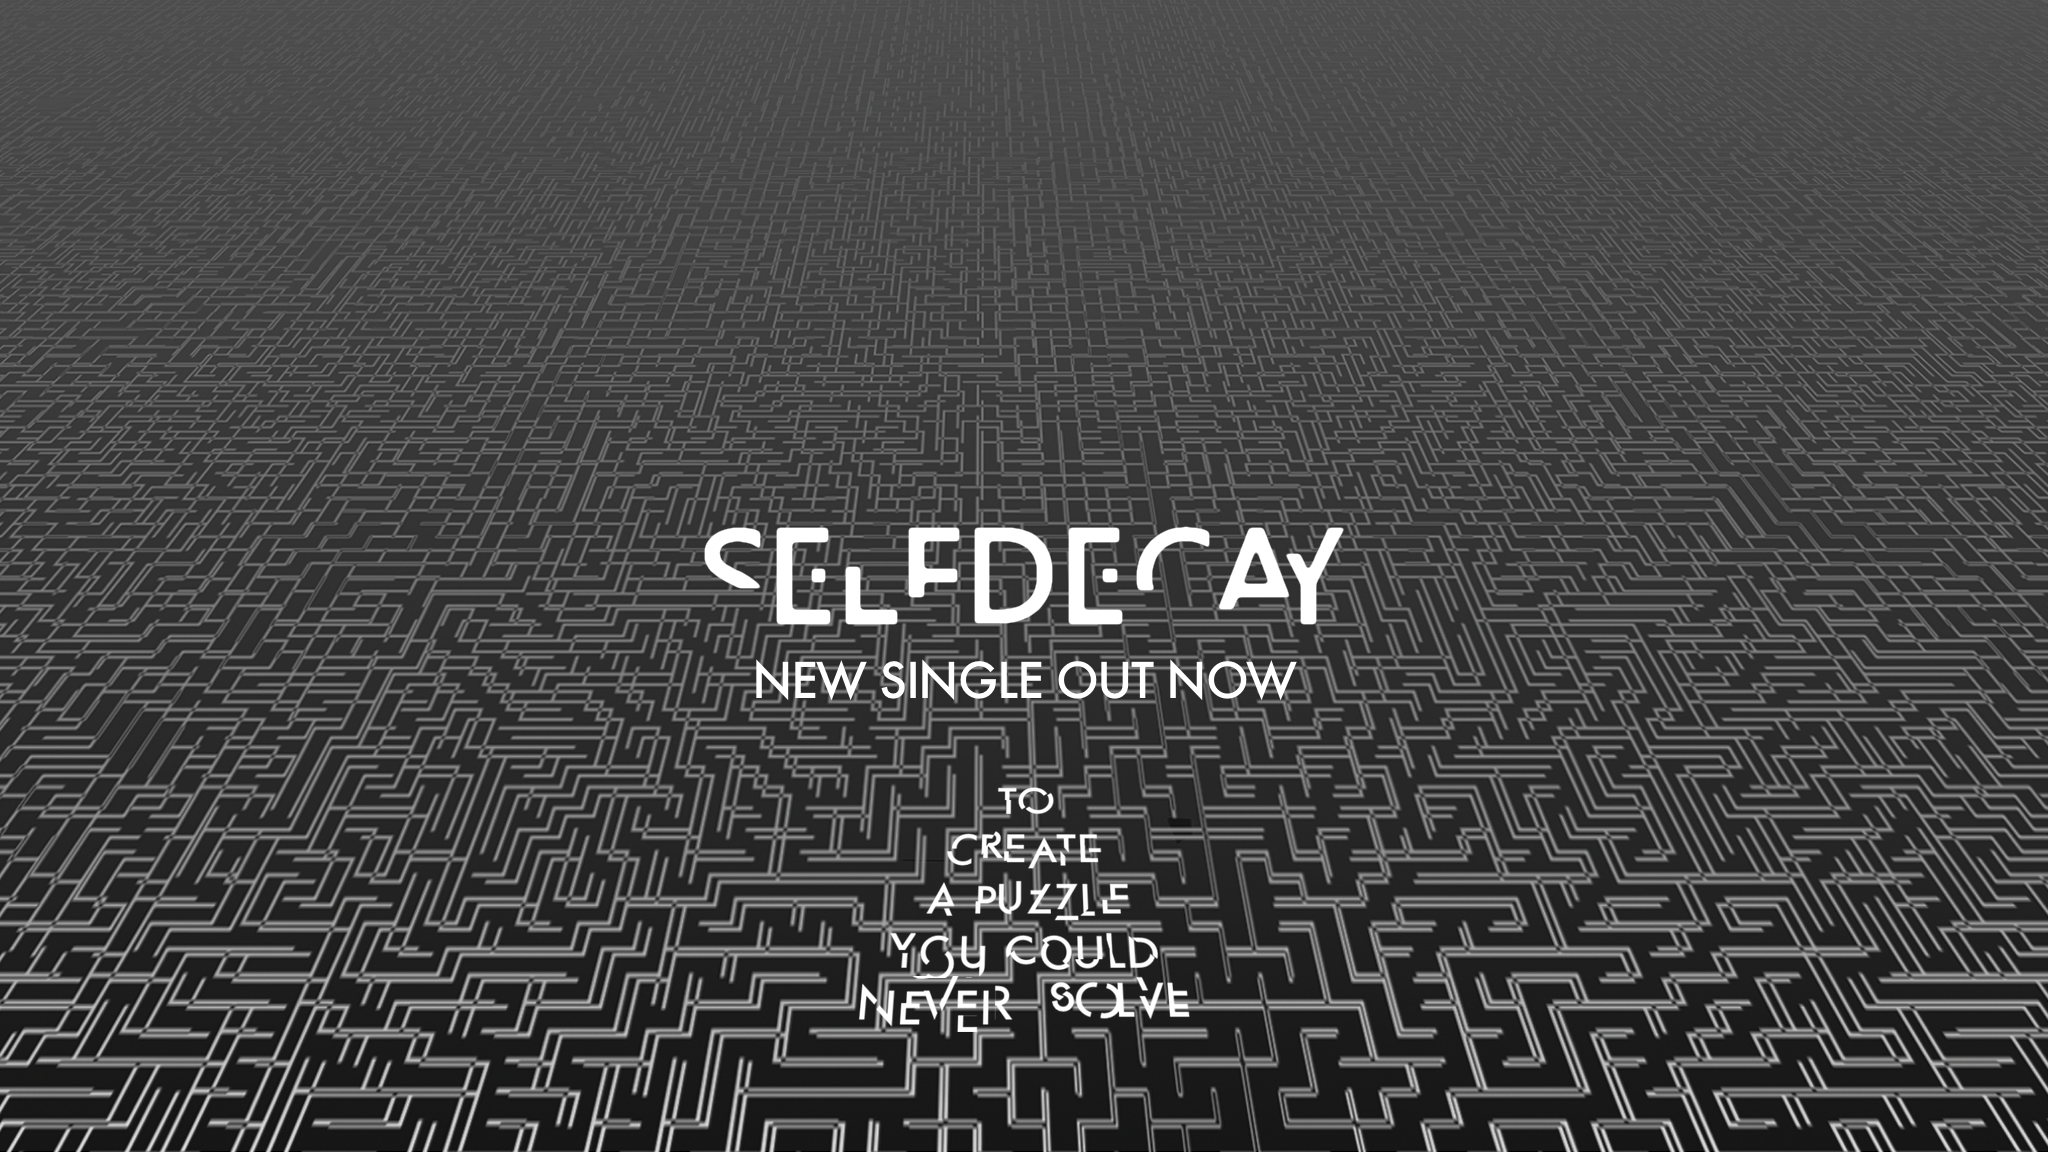
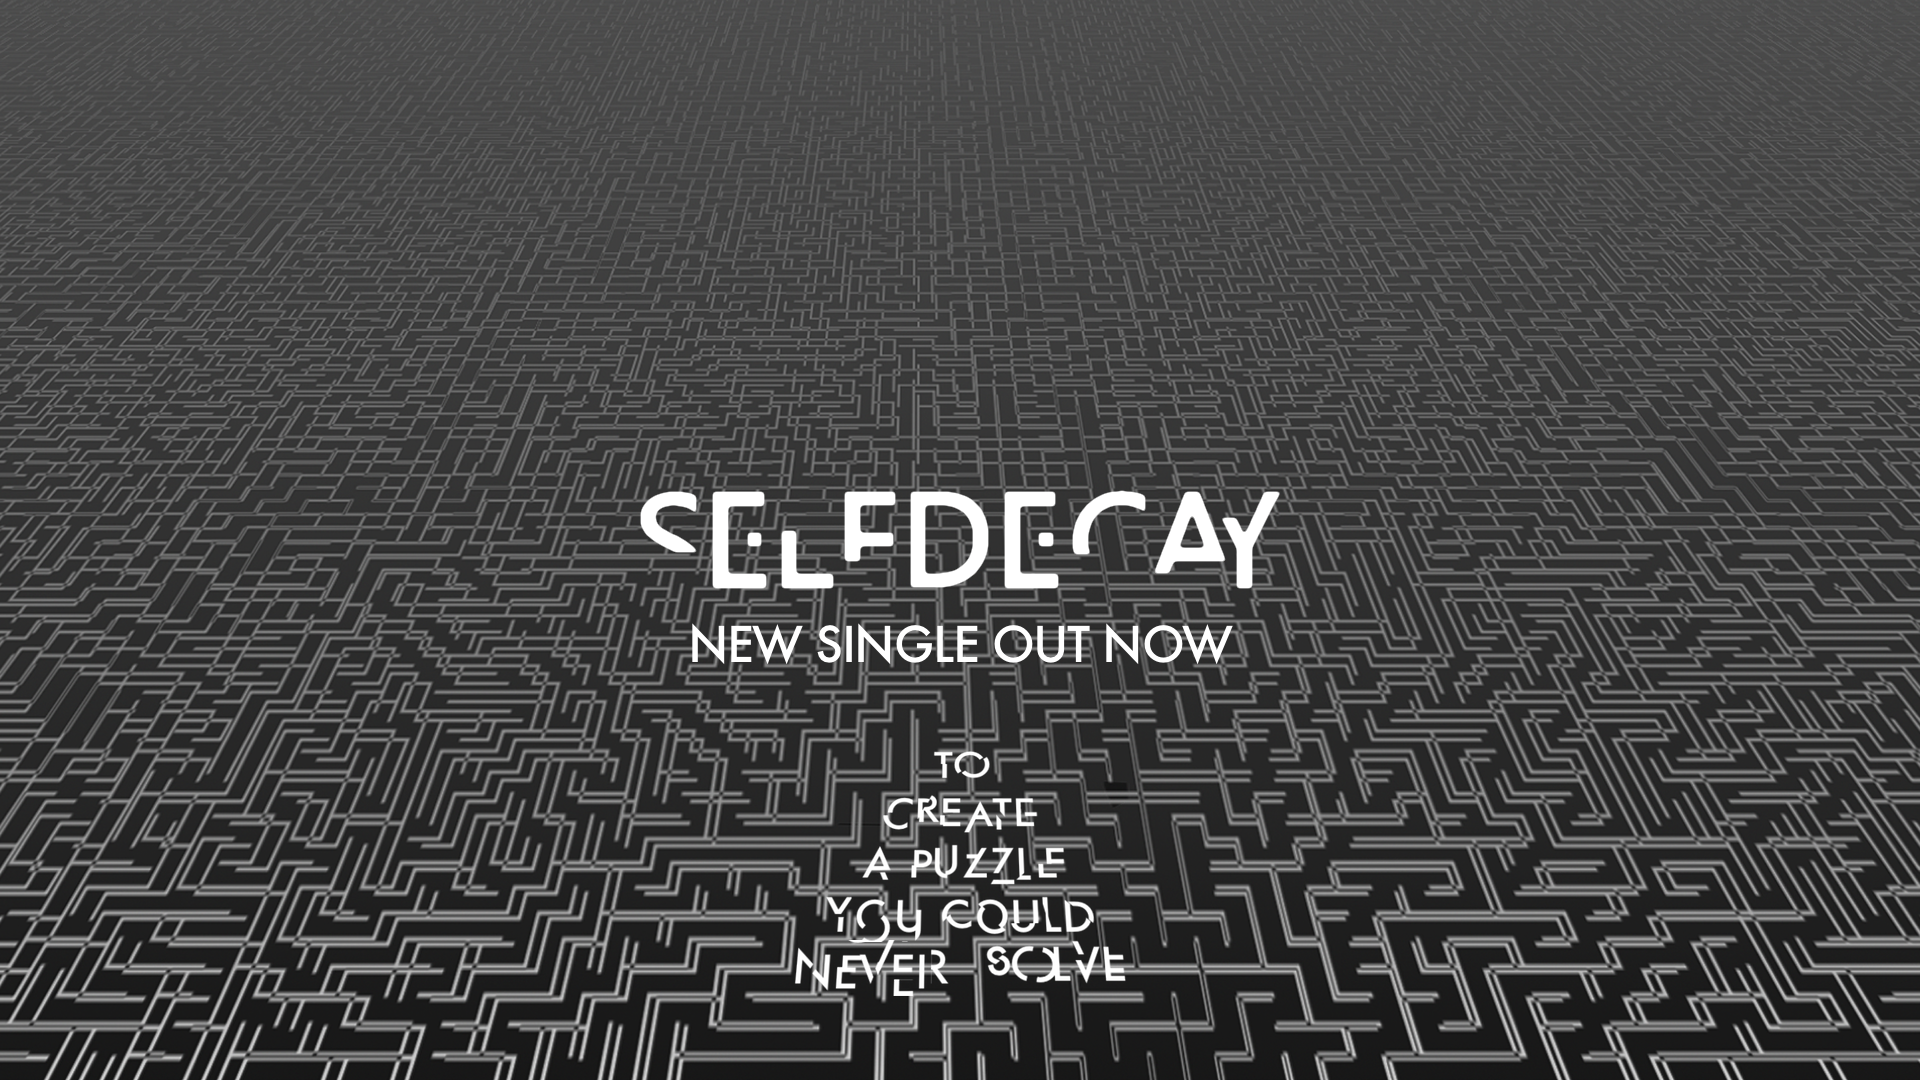
Updated image, made changes to stylesheet in order to make it responsive to different screen sizes.

diff --git a/style.css b/style.css
@@ -1,3 +1,6 @@
 body {
    background-image: url("Images/Selfdecay Maze Banner.png");
+   background-repeat:no-repeat;
+   background-size:contain;
+   background-position:center;
 }
